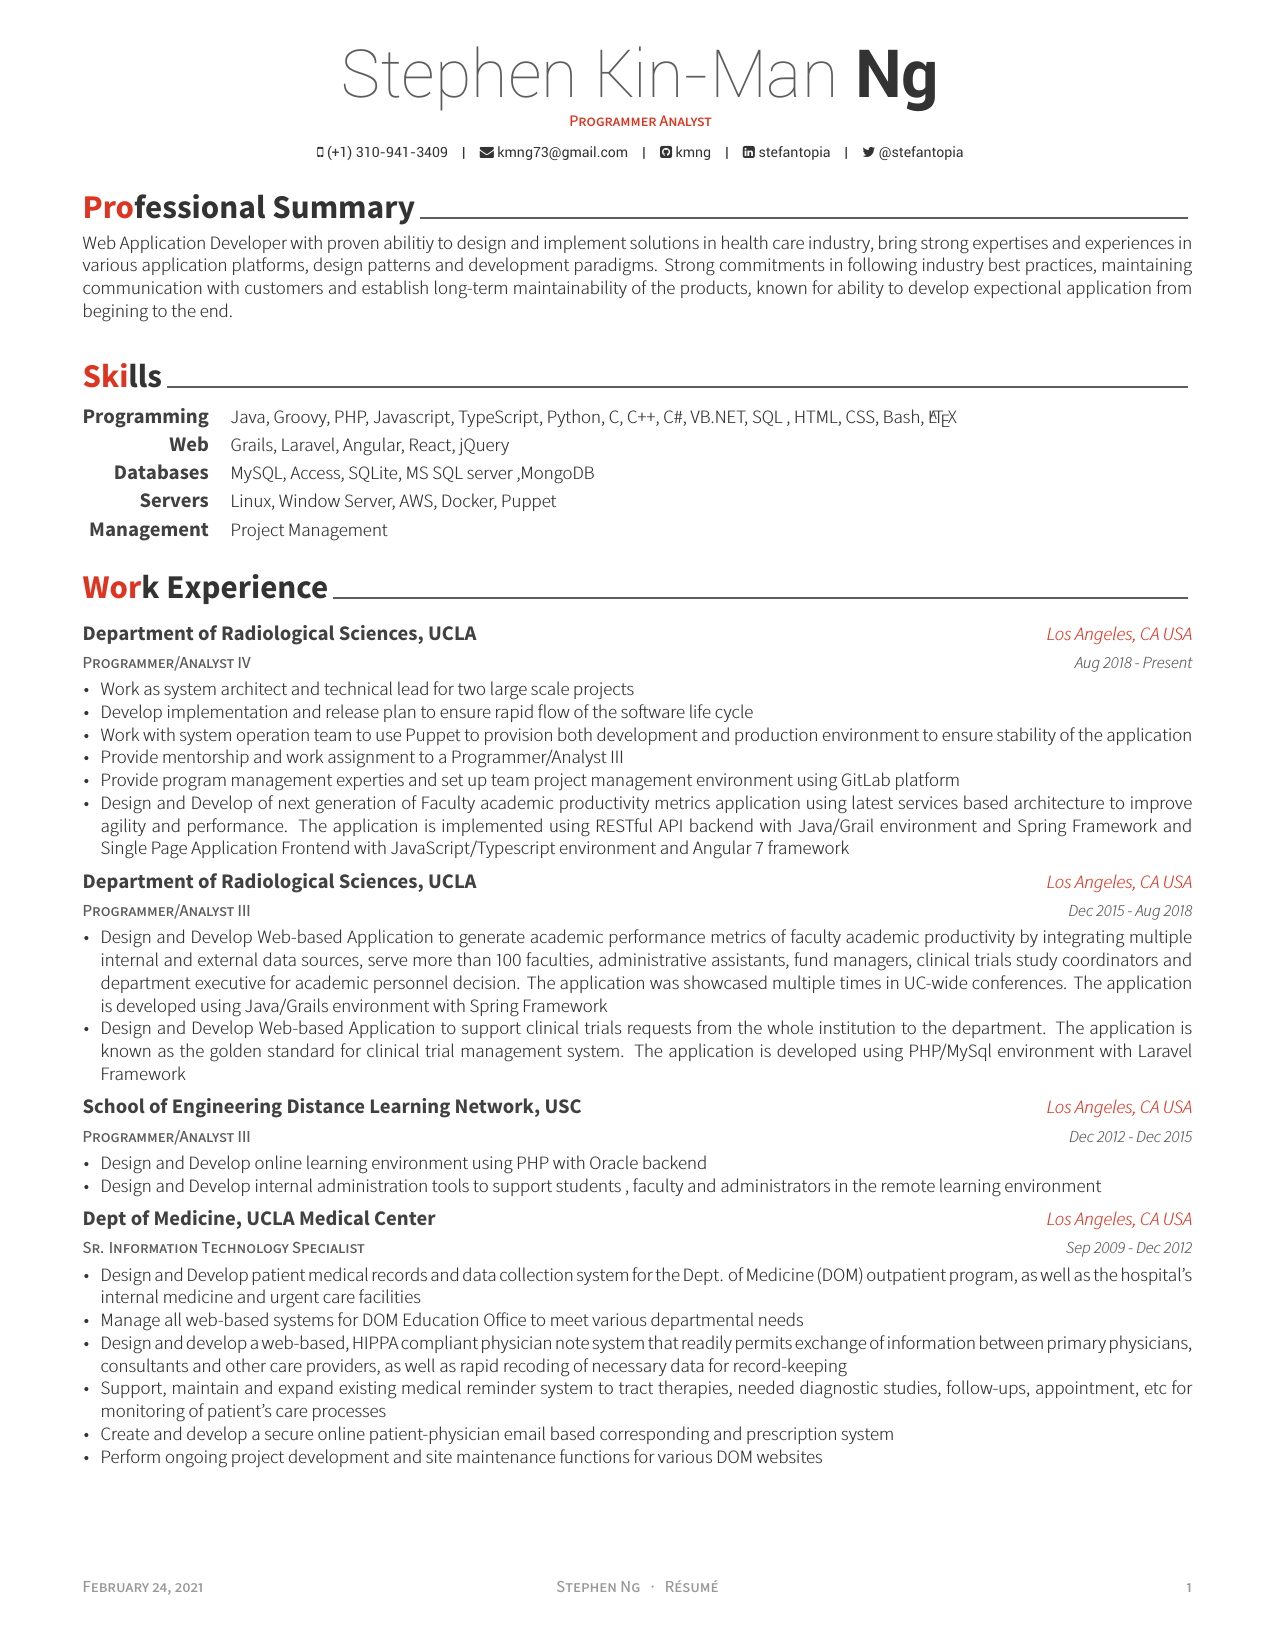
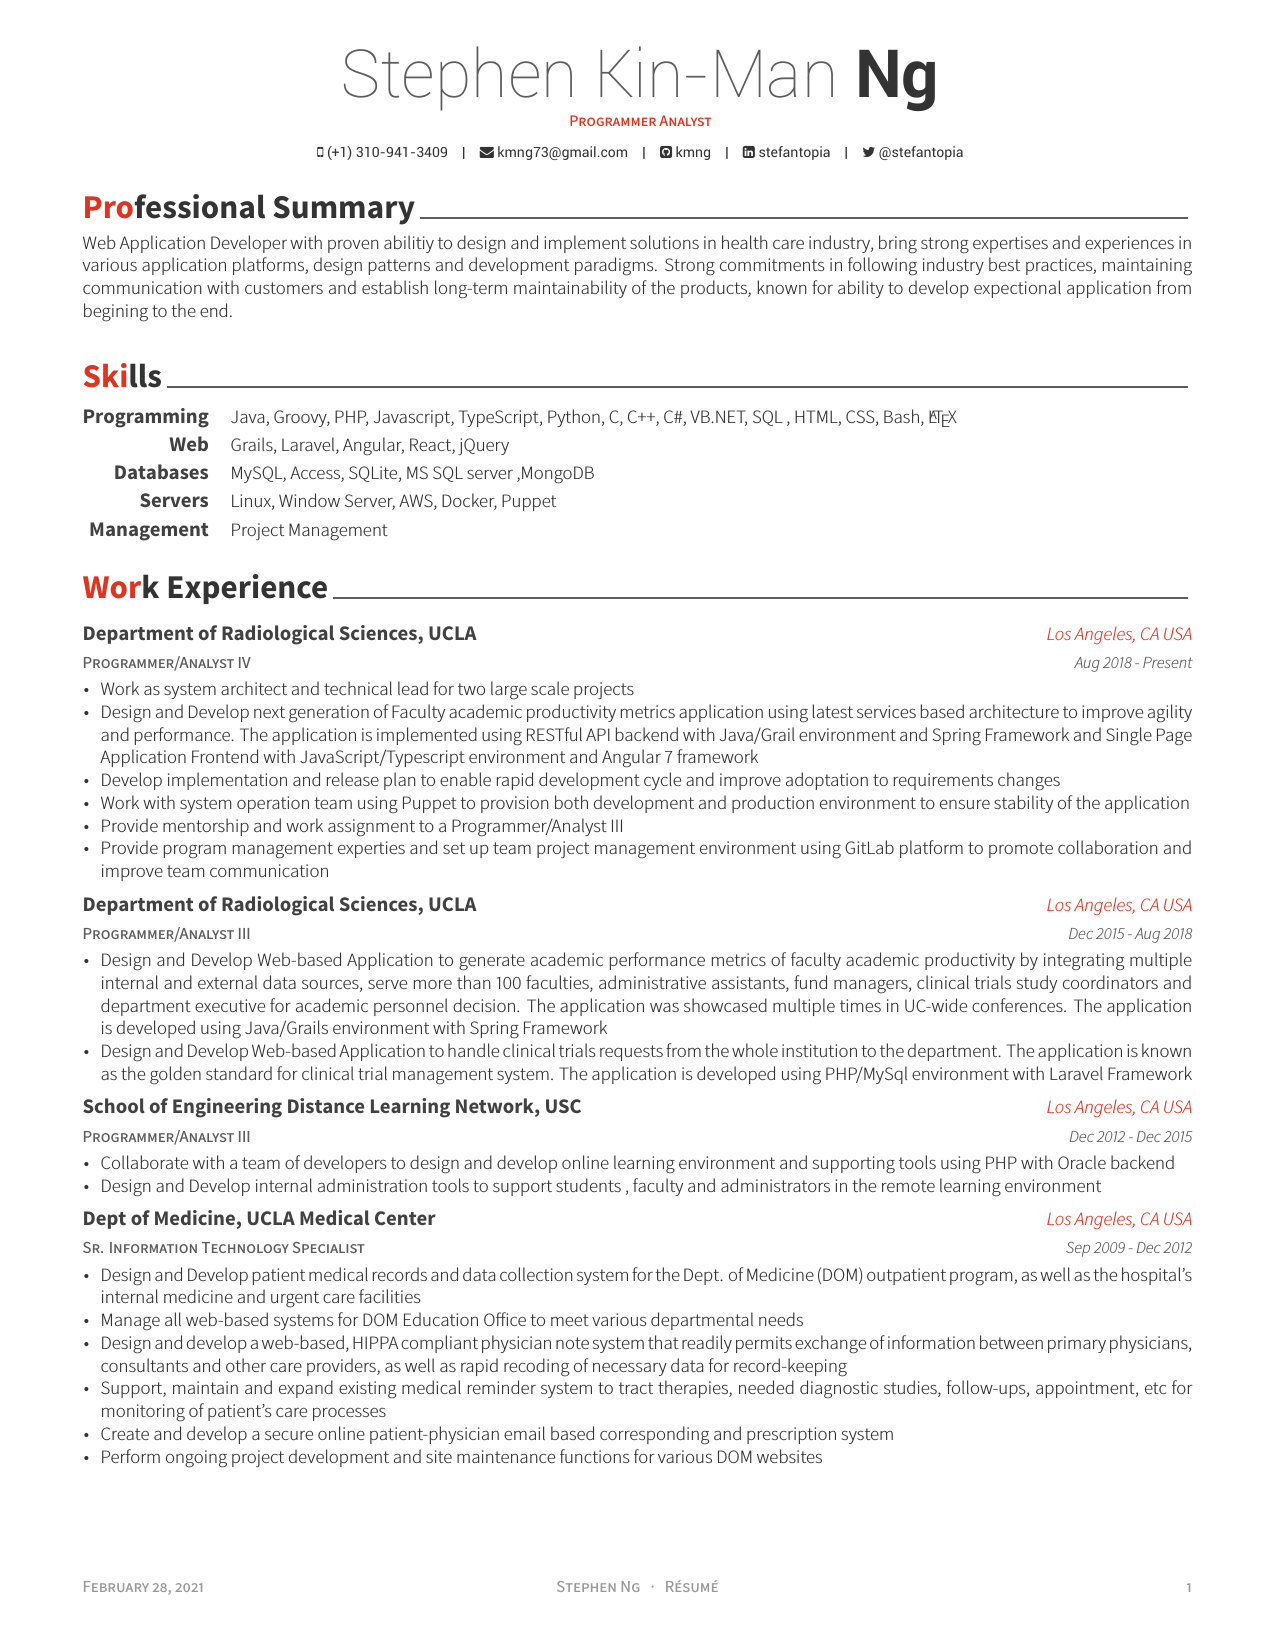
improve entity in PA IV and PA III

Changed region(s): [[0.0612, 0.4327, 0.9482, 0.7109]]

diff --git a/myresume/resume/experience.tex b/myresume/resume/experience.tex
@@ -20,11 +20,11 @@
     {
       \begin{cvitems} % Description(s) of tasks/responsibilities
         \item {Work as system architect and technical lead for two large scale projects}
-        \item {Develop implementation and release plan to ensure rapid flow of the software life cycle}
-        \item { Work with system operation team to use Puppet to provision both development and production environment to ensure stability of the application}
-        \item {Provide mentorship and work assignment  to a Programmer/Analyst III }
-        \item {Provide program management experties and set up team project management environment using GitLab platform}
-	       \item {Design and Develop of next generation of  Faculty academic productivity metrics application using latest services based architecture to improve agility and performance.  The application is implemented using RESTful API backend with Java/Grail environment and Spring Framework and Single Page Application Frontend with JavaScript/Typescript environment and Angular 7 framework } 
+        \item {Design and Develop next generation of  Faculty academic productivity metrics application using latest services based architecture to improve agility and performance. The application is implemented using RESTful API backend with Java/Grail environment and Spring Framework and Single Page Application Frontend with JavaScript/Typescript environment and Angular 7 framework } 
+        \item {Develop implementation and release plan to enable rapid development cycle and improve adoptation to requirements changes}
+        \item { Work with system operation team using Puppet to provision both development and production environment to ensure stability of the application}
+        \item {Provide mentorship and work assignment to a Programmer/Analyst III }
+        \item {Provide program management experties and set up team project management environment using GitLab platform to promote collaboration and improve team communication}
       \end{cvitems}
     }
 	
@@ -37,7 +37,7 @@
     {
       \begin{cvitems} % Description(s) of tasks/responsibilities
         \item {Design and Develop Web-based Application to generate academic performance metrics  of faculty academic productivity by integrating multiple internal and external data sources, serve more than 100 faculties, administrative assistants, fund managers, clinical trials study coordinators and department executive for academic personnel decision. The application was showcased multiple times in UC-wide conferences. The application is developed using Java/Grails environment with Spring Framework}
-        \item {Design and Develop Web-based Application to support clinical trials requests from the whole institution to the department. The application is known as the golden standard for clinical trial management system. The application is developed using PHP/MySql environment with Laravel Framework}       
+        \item {Design and Develop Web-based Application to handle clinical trials requests from the whole institution to the department. The application is known as the golden standard for clinical trial management system. The application is developed using PHP/MySql environment with Laravel Framework}       
       \end{cvitems}
     }
 	
@@ -48,7 +48,7 @@
     {Dec 2012 - Dec 2015} % Date(s)
     {
       \begin{cvitems} % Description(s) of tasks/responsibilities
-        \item {Design and Develop online learning environment  using PHP with Oracle backend}
+        \item {Collaborate with a team of developers to design and develop online learning environment and supporting tools using PHP with Oracle backend}
         \item {Design and Develop internal administration tools to support students , faculty and administrators  in the remote learning environment}       
       \end{cvitems}
     }

diff --git a/myresume/resume/development.tex b/myresume/resume/development.tex
@@ -12,8 +12,8 @@
 %---------------------------------------------------------
 
    \cventry
-    {} % Degree
-    {UCLA Profesional Develeopment Program} % Institution
+    {UCLA} % Degree
+    {Profesional Develeopment Program} % Institution
     {Los Angeles, CA USA} % Location
     {2019} % Date(s)
     {}
